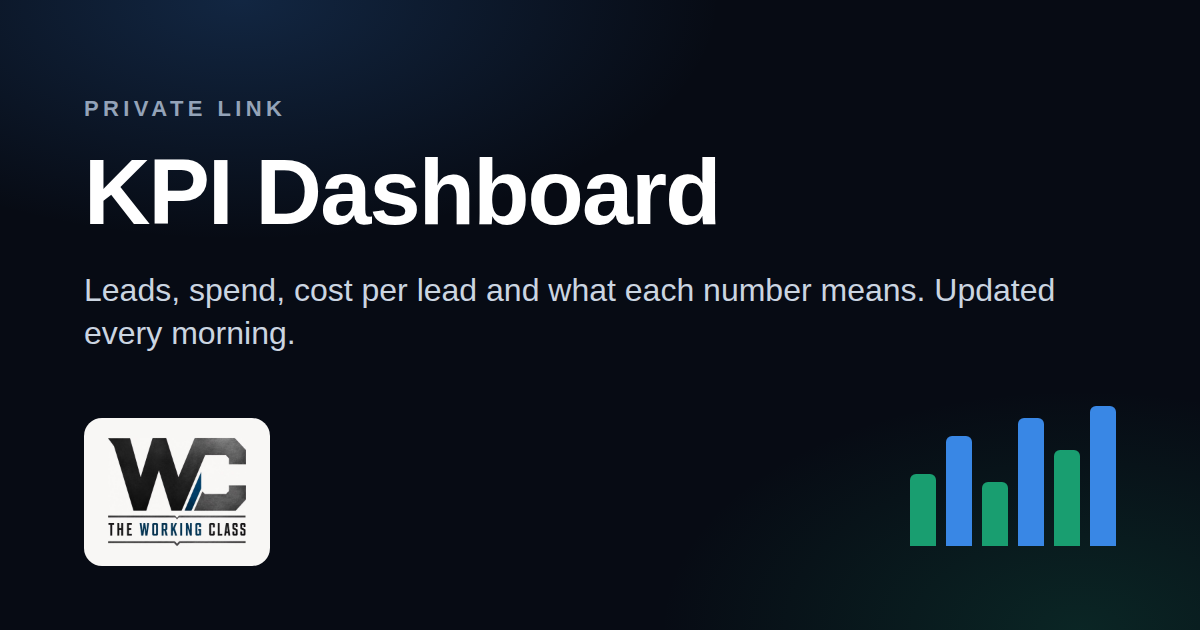
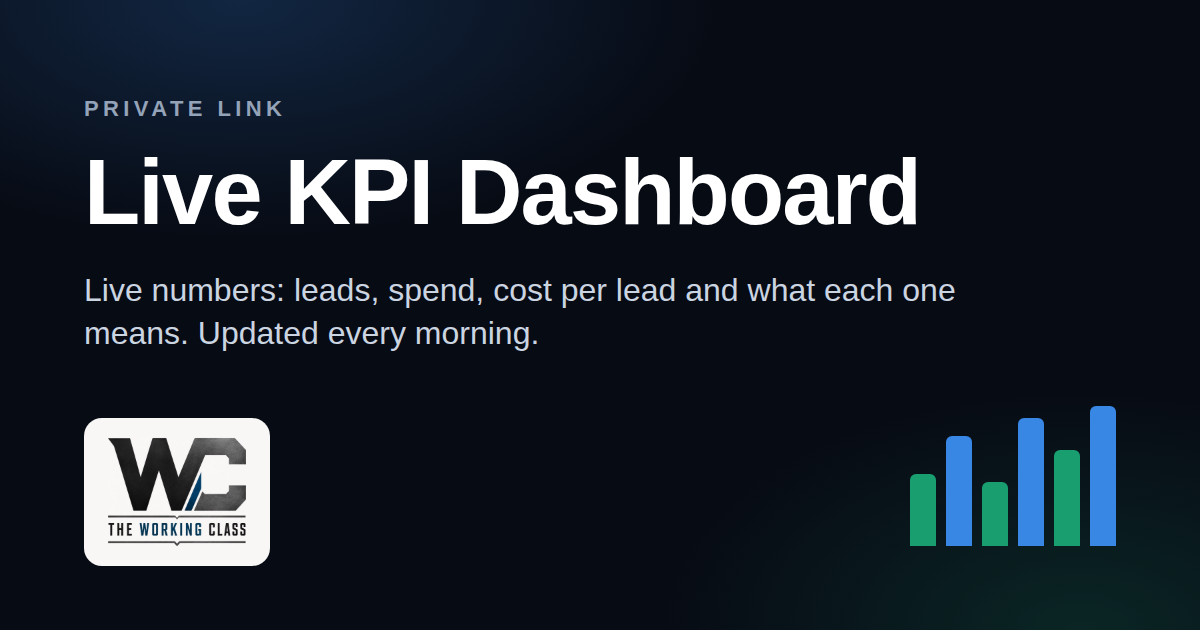
Client dashboard: a LIVE pill, and 'Live KPI Dashboard' everywhere the page is named
The heading carries a green LIVE pill with a pulsing dot and the subtitle
says the numbers are live, refreshed every morning, with the latest day
of data. The tab title, the link preview, its card image, and the links
from the weekly email and report page all say Live KPI Dashboard.

Claude-Session: https://claude.ai/code/session_015MtRDyrw1RACaaLV1EJvYJ

Changed region(s): [[0.0617, 0.2413, 0.7708, 0.3619], [0.0617, 0.4222, 0.8942, 0.4825], [0.0617, 0.5127, 0.4625, 0.573]]

diff --git a/src/pages/ClientDashboardPage.jsx b/src/pages/ClientDashboardPage.jsx
@@ -233,7 +233,7 @@ export default function ClientDashboardPage() {
     const was = document.body.style.background
     const title = document.title
     document.body.style.background = '#070b14'
-    document.title = data?.client?.name ? `KPI Dashboard for ${data.client.name}` : 'KPI Dashboard'
+    document.title = data?.client?.name ? `Live KPI Dashboard for ${data.client.name}` : 'Live KPI Dashboard'
     return () => {
       document.body.style.background = was
       document.title = title
@@ -316,10 +316,22 @@ export default function ClientDashboardPage() {
               </span>
               <span className="text-sm font-semibold tracking-tight text-slate-200">The Working Class Marketing KPIs</span>
             </div>
-            <Eyebrow>Your ads dashboard</Eyebrow>
+            <p className="flex items-center gap-2.5">
+              {/* The pill says it plainly: these numbers are live, not a sent
+                  report. The dot pulses so it reads as live at a glance. */}
+              <span className="inline-flex items-center gap-1.5 rounded-full bg-emerald-400/10 px-2.5 py-1 text-[11px] font-bold uppercase tracking-[0.14em] text-emerald-300 ring-1 ring-inset ring-emerald-400/30" data-live-badge>
+                <span className="relative flex h-2 w-2" aria-hidden="true">
+                  <span className="absolute inline-flex h-full w-full animate-ping rounded-full bg-emerald-400 opacity-70" />
+                  <span className="relative inline-flex h-2 w-2 rounded-full bg-emerald-400" />
+                </span>
+                Live
+              </span>
+              <Eyebrow>KPI dashboard</Eyebrow>
+            </p>
             <h1 className="mt-1 text-3xl font-semibold tracking-tight text-white md:text-4xl">{data.client?.name}</h1>
-            <p className="mt-1 text-sm text-slate-400">
-              Straight from your ad accounts, refreshed every morning. Showing {rangeLabel(win.from, win.to)}, compared with the {days} days before.
+            <p className="mt-1 max-w-2xl text-sm text-slate-400">
+              Live numbers from your ad accounts, refreshed every morning{data.last_day ? ` (data through ${rangeLabel(data.last_day, data.last_day).split(' to ')[0]})` : ''}. Showing{' '}
+              {rangeLabel(win.from, win.to)}, compared with the {days} days before.
             </p>
           </div>
           <Segmented options={RANGES} value={days} onChange={setDays} />

diff --git a/supabase/functions/weekly-report/weekly.ts b/supabase/functions/weekly-report/weekly.ts
@@ -426,7 +426,7 @@ ${
   }
   ${
     dashboardUrl
-      ? `<div style="font-size:12px;color:${MUTED};padding-top:12px;">Every number, any day, with what each one means: <a href="${esc(dashboardUrl)}" style="color:${BRAND};font-weight:700;text-decoration:none;">open your dashboard</a></div>`
+      ? `<div style="font-size:12px;color:${MUTED};padding-top:12px;">Every number, any day, with what each one means: <a href="${esc(dashboardUrl)}" style="color:${BRAND};font-weight:700;text-decoration:none;">open your live KPI dashboard</a></div>`
       : ''
   }
 </td></tr>
@@ -468,6 +468,6 @@ export function renderWeeklyText(model, { reportUrl = '', dashboardUrl = '' } = 
   if (topAd) lines.push('', `Best ad: ${topAd.name} (${fmtLeads(topAd.leads)} ${plural(topAd.leads, 'lead', 'leads')} for ${money(topAd.spend)})`)
   lines.push('', 'The number that matters most', ...WHY_RETURN, ...rn)
   if (reportUrl) lines.push('', `Tell us how the leads did: ${reportUrl}`)
-  if (dashboardUrl) lines.push(`Your dashboard, every number any day: ${dashboardUrl}`)
+  if (dashboardUrl) lines.push(`Your live KPI dashboard, every number any day: ${dashboardUrl}`)
   return lines.join('\n')
 }

diff --git a/src/pages/WeeklyReportPage.jsx b/src/pages/WeeklyReportPage.jsx
@@ -104,7 +104,7 @@ export default function WeeklyReportPage() {
           <p className="mt-3 text-[15px] leading-relaxed">{summary.join(' ')}</p>
           {row.dashboard_token && (
             <a href={`/dashboard/${row.dashboard_token}`} className="mt-3 inline-block text-sm font-semibold text-orange-700 hover:text-orange-800" data-dashboard-link>
-              See every number, any day, on your dashboard
+              See every number, any day, on your live KPI dashboard
             </a>
           )}
         </header>

diff --git a/netlify/lib/preview.js b/netlify/lib/preview.js
@@ -16,8 +16,8 @@
 export const KINDS = {
   dashboard: {
     prefix: '/dashboard/',
-    title: (name) => (name ? `KPI Dashboard for ${name}` : 'KPI Dashboard'),
-    description: 'Leads, spend, cost per lead and what each number means. Updated every morning.',
+    title: (name) => (name ? `Live KPI Dashboard for ${name}` : 'Live KPI Dashboard'),
+    description: 'Live numbers: leads, spend, cost per lead and what each one means. Updated every morning.',
     image: '/og-kpi-dashboard.png',
   },
   report: {
